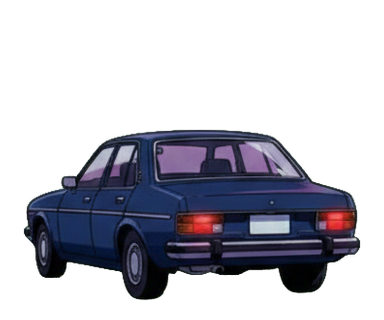
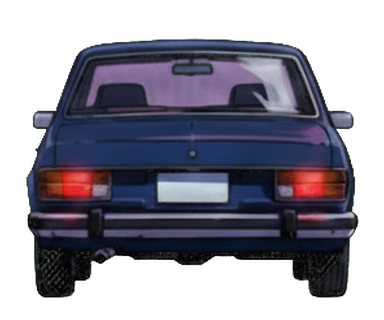
Publish 11ea35019bb2baffcbd85fe93eb5ec2d171294db

diff --git a/game.js b/game.js
@@ -921,19 +921,18 @@ function rivalDist(i) {
   const gap = Math.max(25, (passAt - G.playerDist) * 0.12);
   return G.playerDist + gap;
 }
-function trafficTravelAngle(rel,lateral) {
-  // Screen-space path direction is used only to choose an authored frame.
-  // Use the road centerline tangent: projecting the same lateral offset at
-  // two depths adds vanishing-point convergence and falsely labels a straight
-  // lane car as turning. Rotating a billboard makes it appear to roll.
-  const p0=projectSprite(rel,0,0),p1=projectSprite(rel+18,0,0);
-  const dx=p1.x-p0.x,dy=p0.y-p1.y;
-  return Math.atan2(dx,Math.max(1,dy));
-}
-function trafficFrame(base,rel,lateral) {
-  const angle=trafficTravelAngle(rel,lateral);
-  const direction=angle<-.018?'left':angle>.018?'right':'straight';
-  return {key:`${base}-${direction}`,direction,angle};
+const TRAFFIC_PARTIAL_MAX_REL = 120;
+const TRAFFIC_PARTIAL_MIN_OFFSET = .28;
+function trafficFrame(base,rel,lateral,playerLateral=G.playerX) {
+  // The camera/player's view of another car depends on their relative pose,
+  // not the road tangent or that car's ordinary steering. Distant traffic is
+  // always a clean tail. Only a close car viewed from across a meaningful
+  // lateral offset exposes one of the authored, slight three-quarter sides.
+  const relativeLateral=lateral-playerLateral;
+  let direction='straight';
+  if(rel<=TRAFFIC_PARTIAL_MAX_REL&&Math.abs(relativeLateral)>=TRAFFIC_PARTIAL_MIN_OFFSET)
+    direction=relativeLateral>0?'left':'right';
+  return {key:`${base}-${direction}`,direction,relativeLateral};
 }
 function trafficFrameOptions(direction,maxScreenWidth) {
   // Every generated frame uses the same transparent canvas and ground pivot.
@@ -1890,12 +1889,13 @@ if (HARNESS) {
   window.__tdWorldEffects = () => ({...sceneEffectsStats});
   window.__tdVisualState = () => ({
     playerWidth: +playerWpx().toFixed(2), laneWidth: +(roadHalfPxAtCar()*2/3).toFixed(2),
-    trafficOrientation: 'directional-frames', trafficKeys: ['car-sedan','car-taxi','car-van','car-sport'],
+    trafficOrientation: 'player-relative-frames', trafficKeys: ['car-sedan','car-taxi','car-van','car-sport'],
+    trafficPartialMaxRel: TRAFFIC_PARTIAL_MAX_REL, trafficPartialMinOffset: TRAFFIC_PARTIAL_MIN_OFFSET,
     trafficMaxPlayerRatio: .92, secondaryRoadRange: [20,1600], secondaryTrafficLifecycle: [-150,1500],
     opponents: G.rivals.length, particles: G.sparks.length, skids:G.skids.length,
     impact:G.impact?{...G.impact}:null, crossTraffic:crossTrafficState(),
   });
-  window.__tdTrafficFrame = (base,rel,lateral) => trafficFrame(base,rel,lateral);
+  window.__tdTrafficFrame = (base,rel,lateral,playerLateral) => trafficFrame(base,rel,lateral,playerLateral);
   window.__tdForceImpact=(kind,speed,angle)=>{G.speedMs=speed;setImpact(kind,angle,speed/TOP_MS);spawnSparks();render();return window.__tdVisualState();};
   window.__tdSetNitro = (n) => { G.nitro = n; if (n < 100) G.nitroOn = false; };
   window.__tdSparks = () => G.sparks.length;

diff --git a/index.html b/index.html
@@ -144,8 +144,8 @@
 </div>
 
 <script src="changelog-data.js?v=117"></script>
-<script src="game.js?v=132"></script>
-<script src="renderer.js?v=132"></script>
+<script src="game.js?v=133"></script>
+<script src="renderer.js?v=133"></script>
 <script src="qa.js?v=117"></script>
 </body>
 </html>
